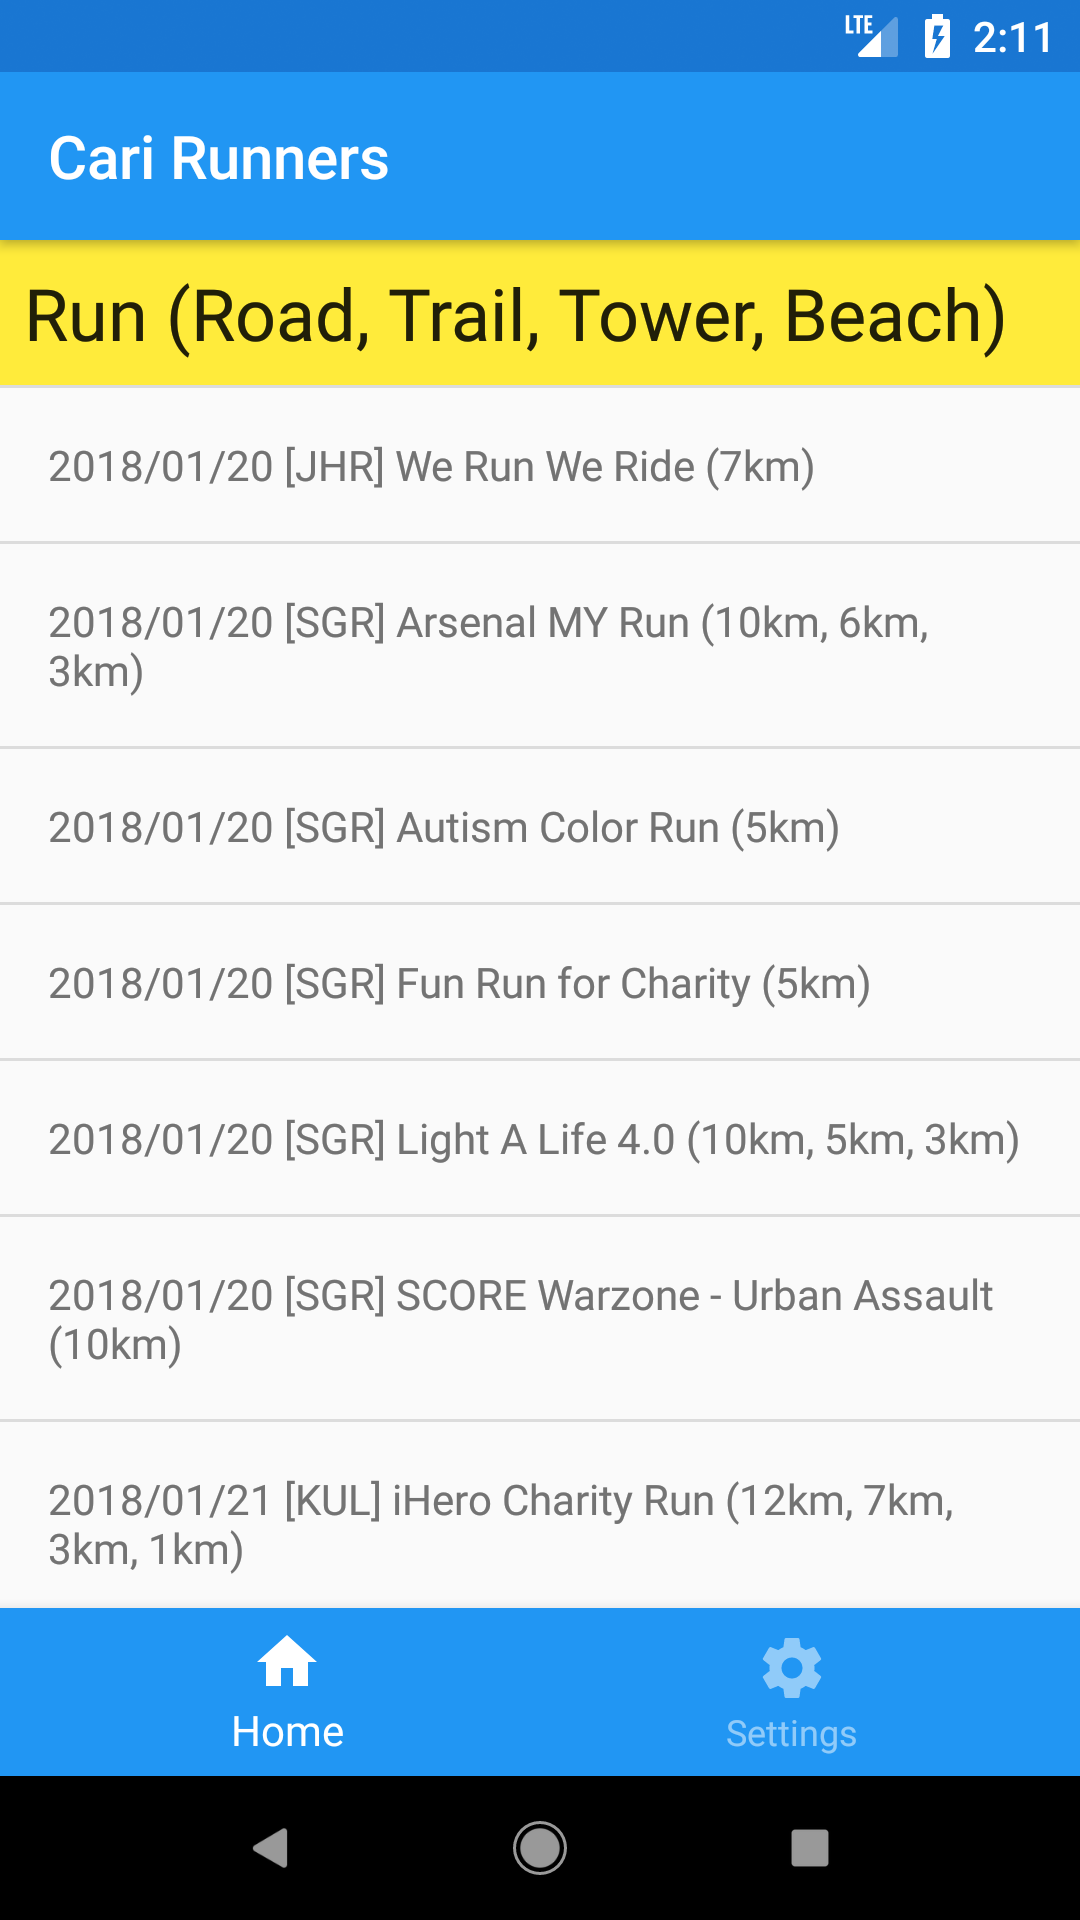
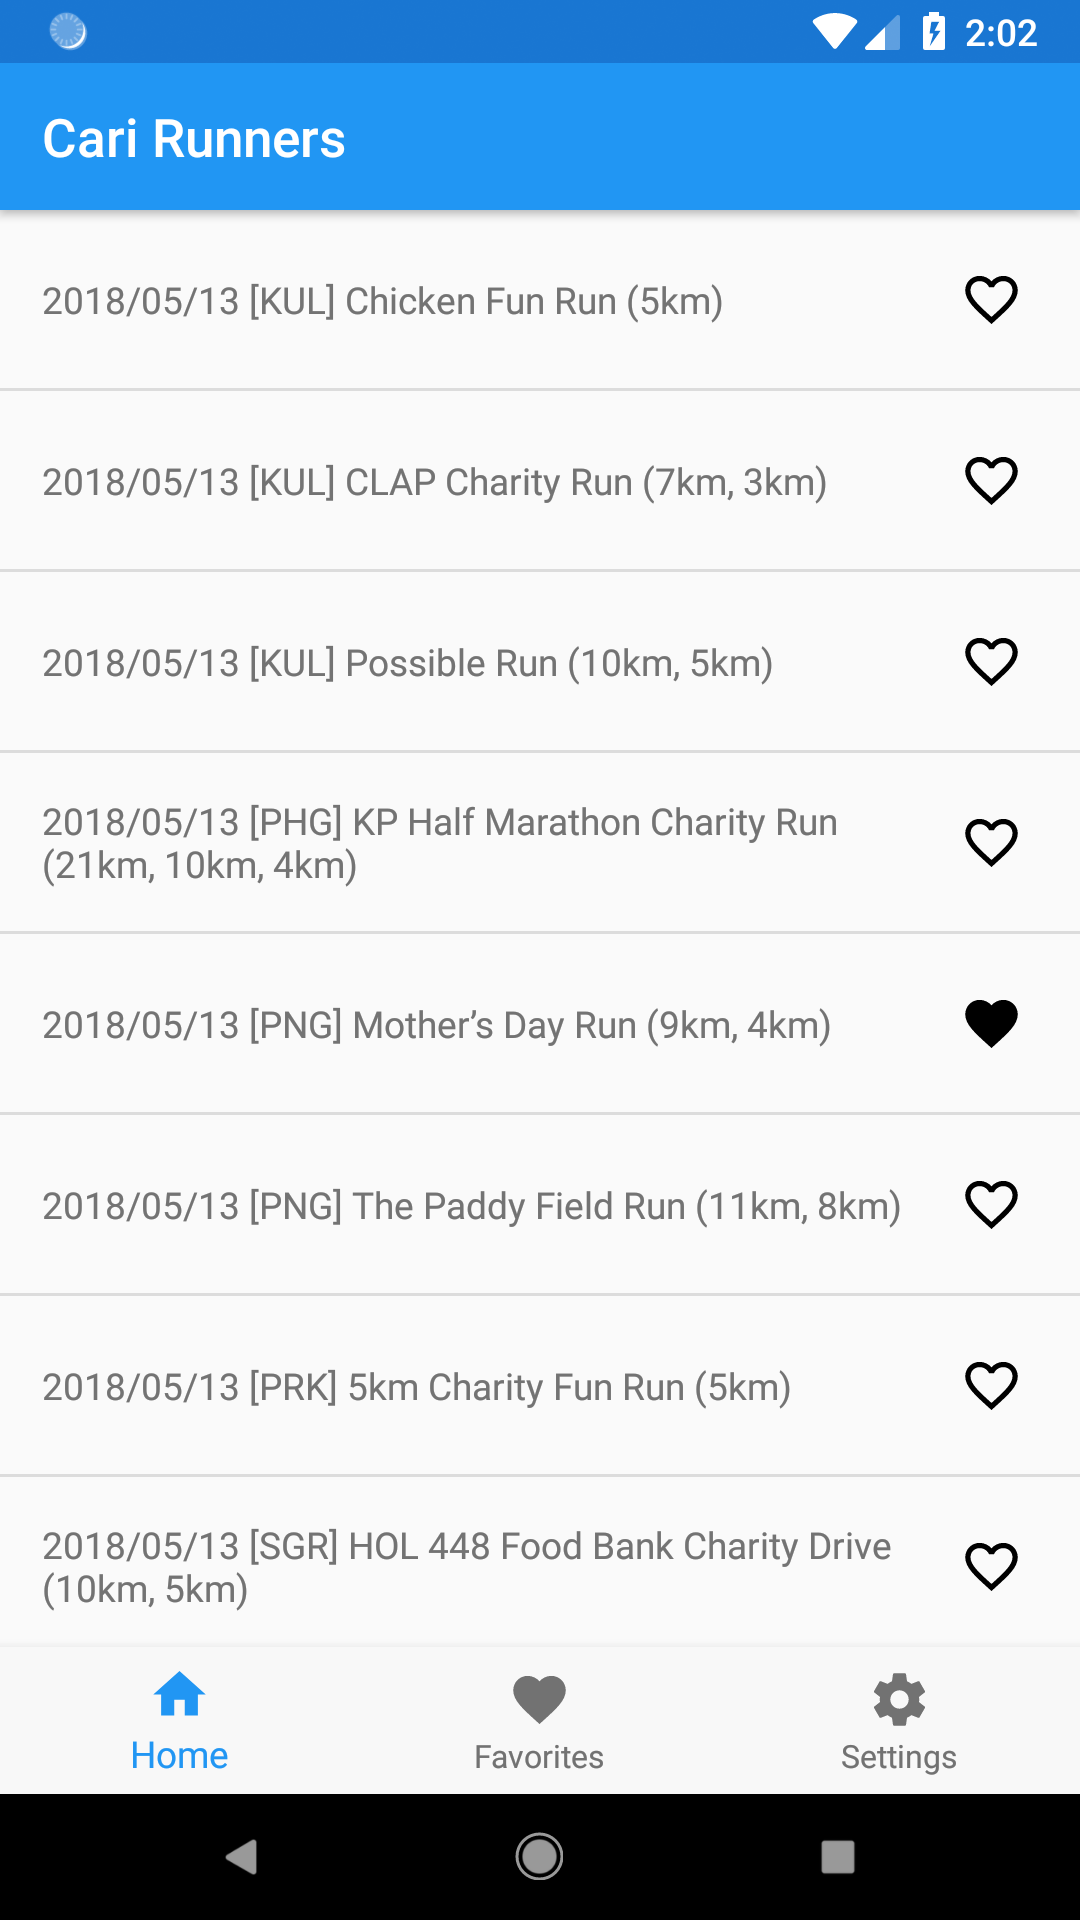
- Update screenshot.

diff --git a/README.md b/README.md
@@ -9,13 +9,19 @@ This is a mobile app that uses Android Architecture Components with Dagger 2.
 https://carirunners-57b89.firebaseapp.com
 
 ## Functionality
-The app is composed of 2 main screens.
+The app is composed of 4 main screens.
 ### PageFragment
-This fragment displays a page.
+This fragment displays a list of posts.
 ![PageFragment](art/PageFragment.png)
 ### PostFragment
 This fragment displays the details of a post.
 ![PostFragment](art/PostFragment.png)
+### FavoriteFragment
+This fragment displays a list of favorite posts.
+![FavoriteFragment](art/FavoriteFragment.png)
+### SettingsFragment
+This fragment displays the settings.
+![SettingsFragment](art/SettingsFragment.png)
 ### PushNotification
 The FCM push notification.
 ![PushNotification](art/PushNotification.png)
